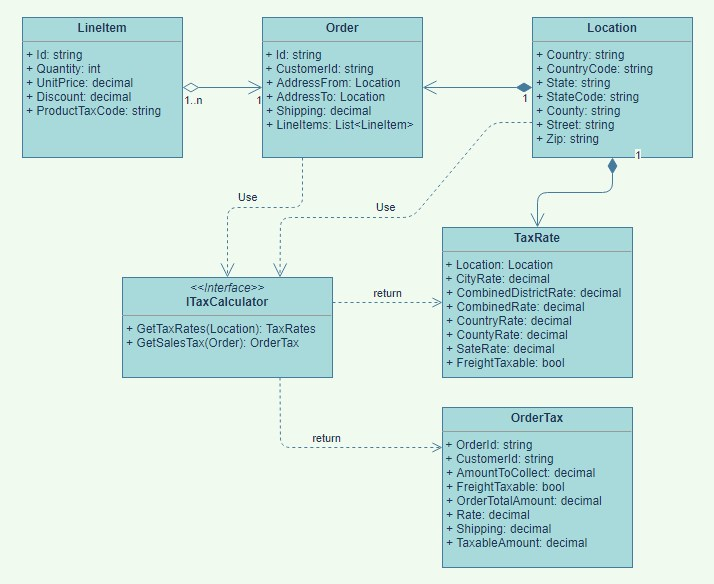
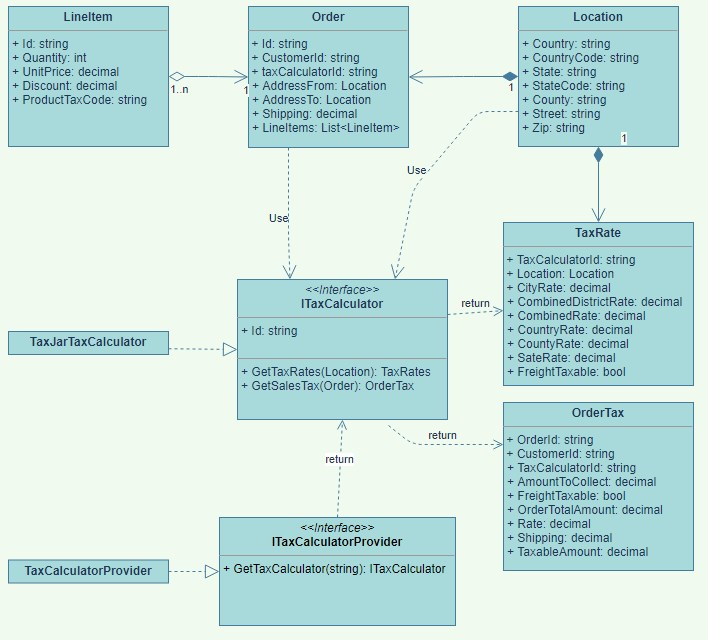
Added TaxCalculatorProvider to address possibility of multiple tax calculators

diff --git a/src/IMC.Web/Controllers/TaxCalculatorController.cs b/src/IMC.Web/Controllers/TaxCalculatorController.cs
@@ -5,6 +5,8 @@ using IMC.Domain.Validators;
 using Microsoft.AspNetCore.Mvc;
 using Microsoft.Extensions.Logging;
 using System;
+using System.Collections.Generic;
+using System.Linq;
 using System.Net.Mime;
 using System.Threading.Tasks;
 
@@ -12,11 +14,11 @@ namespace Web.Controllers {
     [Route("api/[controller]")]
     [ApiController]
     public class TaxCalculatorController : ControllerBase {
-        private readonly ITaxCalculator _taxCalculator;
+        private readonly ITaxCalculatorProvider _taxCalculatorProvider;
         private readonly ILogger<TaxCalculatorController> _logger;
 
-        public TaxCalculatorController(ITaxCalculator taxCalculator, ILogger<TaxCalculatorController> logger) {
-            _taxCalculator = taxCalculator;
+        public TaxCalculatorController(ITaxCalculatorProvider taxCalculatorProvider, ILogger<TaxCalculatorController> logger) {
+            _taxCalculatorProvider = taxCalculatorProvider;
             _logger = logger;
         }
 
@@ -25,6 +27,7 @@ namespace Web.Controllers {
         /// </summary>
         /// <param name="zipCode"></param>
         /// <param name="countryCode"></param>
+        /// <param name="taxCalculatorId"></param>
         /// <remarks>
         /// Sample return value
         /// 
@@ -40,6 +43,7 @@ namespace Web.Controllers {
         ///             "country": null,
         ///             "state": null
         ///         },
+        ///         "taxCalculatorId": "TAXJAR",
         ///         "cityRate": 0.0,
         ///         "combinedDistrictRate": 0.0,
         ///         "combinedRate": 0.07,
@@ -56,14 +60,17 @@ namespace Web.Controllers {
         [ProducesResponseType(typeof(TaxRates), 200)]
         [ProducesResponseType(typeof(string), 400)]
 
-        public async Task<ActionResult<TaxRates>> GetTaxRates([FromRoute] string zipCode, [FromQuery] string countryCode) {
+        public async Task<ActionResult<TaxRates>> GetTaxRates([FromRoute] string zipCode, 
+            [FromQuery] string countryCode, 
+            [FromQuery] string taxCalculatorId = "TAXJAR") {
             try {
                 Location location = new() { CountryCode = countryCode, Zip = zipCode };
                 LocationValidator validator = new();
                 validator.ValidateAndThrow(location);
 
-                TaxRates taxRates = await _taxCalculator.GetTaxRates(location);
-
+                var taxCalculator = _taxCalculatorProvider.GetTaxCalculator(taxCalculatorId);
+                TaxRates taxRates = await taxCalculator.GetTaxRates(location);
+                taxRates.TaxCalculatorId = taxCalculatorId;
                 return Ok(taxRates);
             }
             catch(Exception ex) {
@@ -71,58 +78,60 @@ namespace Web.Controllers {
             }
         }
 
-    /// <summary>
-    /// POST Operation to calculate the sales tax of an Order
-    /// </summary>
-    /// <param name="order"></param>
-    /// <remarks>
-    /// Sample request
-    /// 
-    ///         {
-    ///           "id": "1",
-    ///           "customerId": "1",
-    ///           "addressTo": {
-    ///             "countryCode": "US",
-    ///             "zip": "90002",
-    ///             "stateCode": "CA",
-    ///             "city": "Los Angeles",
-    ///             "street": "1335 E 103rd St"
-    ///           },
-    ///           "addressFrom": {
-    ///             "countryCode": "US",
-    ///             "zip": "92093",
-    ///             "stateCode": "CA",
-    ///             "city": "La Jolla",
-    ///             "street": "9500 Gilman Drive"
-    ///           },
-    ///           "shipping": 1.5,
-    ///           "lineItems": [
-    ///             {
-    ///               "id": "abc",
-    ///               "quantity": 1,
-    ///               "productTaxCode": "20010",
-    ///               "unitPrice": 15,
-    ///               "discount": 0
-    ///             }
-    ///           ]
-    ///         }
-    ///        
-    /// Sample response
-    /// 
-    ///         {
-    ///             "orderId": "1",
-    ///             "customerId": "1",
-    ///             "amountToCollect": 1.43,
-    ///             "freightTaxable": false,
-    ///             "orderTotalAmount": 16.5,
-    ///             "rate": 0.095,
-    ///             "shipping": 1.5,
-    ///             "taxableAmount": 15.0
-    ///         }
-    ///         
-    /// </remarks>
-    /// <returns></returns>
-    [HttpPost("taxes", Name = nameof(GetTaxes))]
+        /// <summary>
+        /// POST Operation to calculate the sales tax of an Order
+        /// </summary>
+        /// <param name="order"></param>
+        /// <remarks>
+        /// Sample request
+        /// 
+        ///         {
+        ///           "id": "1",
+        ///           "customerId": "1",
+        ///           "taxCalculatorId": "TAXJAR",
+        ///           "addressTo": {
+        ///             "countryCode": "US",
+        ///             "zip": "90002",
+        ///             "stateCode": "CA",
+        ///             "city": "Los Angeles",
+        ///             "street": "1335 E 103rd St"
+        ///           },
+        ///           "addressFrom": {
+        ///             "countryCode": "US",
+        ///             "zip": "92093",
+        ///             "stateCode": "CA",
+        ///             "city": "La Jolla",
+        ///             "street": "9500 Gilman Drive"
+        ///           },
+        ///           "shipping": 1.5,
+        ///           "lineItems": [
+        ///             {
+        ///               "id": "abc",
+        ///               "quantity": 1,
+        ///               "productTaxCode": "20010",
+        ///               "unitPrice": 15,
+        ///               "discount": 0
+        ///             }
+        ///           ]
+        ///         }
+        ///        
+        /// Sample response
+        /// 
+        ///         {
+        ///             "orderId": "1",
+        ///             "customerId": "1",
+        ///             "taxCalculatorId": "TAXJAR",
+        ///             "amountToCollect": 1.43,
+        ///             "freightTaxable": false,
+        ///             "orderTotalAmount": 16.5,
+        ///             "rate": 0.095,
+        ///             "shipping": 1.5,
+        ///             "taxableAmount": 15.0
+        ///         }
+        ///         
+        /// </remarks>
+        /// <returns></returns>
+        [HttpPost("taxes", Name = nameof(GetTaxes))]
         [Produces(MediaTypeNames.Application.Json)]
         [ProducesResponseType(typeof(OrderTax), 200)]
 
@@ -132,7 +141,9 @@ namespace Web.Controllers {
                 OrderValidator validator = new();
                 validator.ValidateAndThrow(order);
 
-                OrderTax tax = await _taxCalculator.GetSalesTax(order);
+                var taxCalculator = _taxCalculatorProvider.GetTaxCalculator(order.TaxCalculatorId);
+                OrderTax tax = await taxCalculator.GetSalesTax(order);
+                tax.TaxCalculatorId = order.TaxCalculatorId;
                 return Ok(tax);
             }
             catch (Exception vex) {

diff --git a/tests/IMC.Web.ControllersTests/TaxCalculatorControllerTests.cs b/tests/IMC.Web.ControllersTests/TaxCalculatorControllerTests.cs
@@ -14,8 +14,8 @@ namespace IMC.Web.ControllersTests {
         async Task Controller_returns_the_right_TaxRates() {
 
             // Arrange
-            var taxCalculatorMock = new Mock<ITaxCalculator>();
             var loggerMock = new Mock<ILogger<TaxCalculatorController>>();
+            var taxCalculatorMock = new Mock<ITaxCalculator>();
 
             TaxRates taxRates = new() {
                 Location = new Location {
@@ -36,7 +36,10 @@ namespace IMC.Web.ControllersTests {
 
             taxCalculatorMock.Setup(tx => tx.GetTaxRates(It.IsAny<Location>())).ReturnsAsync(taxRates);
 
-            var controller = new TaxCalculatorController(taxCalculatorMock.Object, loggerMock.Object);
+            var taxCalculatorProviderMock = new Mock<ITaxCalculatorProvider>();
+            taxCalculatorProviderMock.Setup(tp => tp.GetTaxCalculator(It.IsAny<string>())).Returns(taxCalculatorMock.Object);
+
+            var controller = new TaxCalculatorController(taxCalculatorProviderMock.Object, loggerMock.Object);
 
             // Act
             ActionResult<TaxRates> response = await controller.GetTaxRates("33029", null);
@@ -72,6 +75,7 @@ namespace IMC.Web.ControllersTests {
             OrderTax orderTax = new() {
                 OrderId = "1",
                 CustomerId = "1",
+                TaxCalculatorId = "TAXJAR",
                 AmountToCollect = 1.50m,
                 FreightTaxable = false,
                 OrderTotalAmount = 16.5m,
@@ -81,12 +85,16 @@ namespace IMC.Web.ControllersTests {
 
             taxCalculatorMock.Setup(tx => tx.GetSalesTax(It.IsAny<Order>())).ReturnsAsync(orderTax);
 
-            var controller = new TaxCalculatorController(taxCalculatorMock.Object, loggerMock.Object);
+            var taxCalculatorProviderMock = new Mock<ITaxCalculatorProvider>();
+            taxCalculatorProviderMock.Setup(tp => tp.GetTaxCalculator(It.IsAny<string>())).Returns(taxCalculatorMock.Object);
+
+            var controller = new TaxCalculatorController(taxCalculatorProviderMock.Object, loggerMock.Object);
 
             // Minimal Order To Pass Validation
             var order = new Order {
                 Id = "1",
                 CustomerId = "1",
+                TaxCalculatorId = "TAXJAR",
                 Shipping = 1.5m,
                 AddressFrom = new() {
                     CountryCode = "US",
@@ -135,7 +143,8 @@ namespace IMC.Web.ControllersTests {
 
             OrderTax orderTax = new() {
                 OrderId = "1",
-                CustomerId = "1",
+                CustomerId = "1", 
+                TaxCalculatorId = "TAXJAR",
                 AmountToCollect = 1.50m,
                 FreightTaxable = false,
                 OrderTotalAmount = 16.5m,
@@ -145,12 +154,16 @@ namespace IMC.Web.ControllersTests {
 
             taxCalculatorMock.Setup(tx => tx.GetSalesTax(It.IsAny<Order>())).ReturnsAsync(orderTax);
 
-            var controller = new TaxCalculatorController(taxCalculatorMock.Object, loggerMock.Object);
+            var taxCalculatorProviderMock = new Mock<ITaxCalculatorProvider>();
+            taxCalculatorProviderMock.Setup(tp => tp.GetTaxCalculator(It.IsAny<string>())).Returns(taxCalculatorMock.Object);
+
+            var controller = new TaxCalculatorController(taxCalculatorProviderMock.Object, loggerMock.Object);
 
             // Order without LineItems 
             var order = new Order {
                 Id = "1",
                 CustomerId = "1",
+                TaxCalculatorId = "TAXJAR",
                 Shipping = 1.5m,
                 AddressFrom = new() {
                     CountryCode = "US",

diff --git a/src/IMC.Web/Startup.cs b/src/IMC.Web/Startup.cs
@@ -1,3 +1,4 @@
+using IMC.Application;
 using IMC.Application.Interfaces;
 using Microsoft.AspNetCore.Builder;
 using Microsoft.AspNetCore.Hosting;
@@ -25,7 +26,7 @@ namespace IMC.Web {
         public void ConfigureServices(IServiceCollection services) {
 
             // Each eventual TaxCalculator would need to be configured separately.
-            services.AddHttpClient(nameof(IMC.TaxJarTaxCalculator.TaxJarTaxCalculator), client => {
+            services.AddHttpClient(nameof(TaxJarTaxCalculator.TaxJarTaxCalculator), client => {
                 client.BaseAddress = new Uri(Configuration["TaxJarUrl"]);
                 client.DefaultRequestHeaders.Authorization = new System.Net.Http.Headers.AuthenticationHeaderValue("Bearer", Configuration["TaxJarApiKey"]);
             });
@@ -36,8 +37,10 @@ namespace IMC.Web {
             services.AddTransient<ITaxCalculator>(sp => { 
                 var factory = sp.GetRequiredService<IHttpClientFactory>();
                 var client = factory.CreateClient(nameof(IMC.TaxJarTaxCalculator.TaxJarTaxCalculator));
-                return new IMC.TaxJarTaxCalculator.TaxJarTaxCalculator(client);
+                return new TaxJarTaxCalculator.TaxJarTaxCalculator(client);
             });
+
+            services.AddTransient<ITaxCalculatorProvider, TaxCalculatorProvider>();
 
             services.AddControllers();
 

diff --git a/src/IMC.Application/TaxCalculatorProvider.cs b/src/IMC.Application/TaxCalculatorProvider.cs
@@ -1,0 +1,19 @@
+using IMC.Application.Interfaces;
+using System;
+using System.Collections.Generic;
+using System.Linq;
+using System.Text;
+using System.Threading.Tasks;
+
+namespace IMC.Application
+{
+    public class TaxCalculatorProvider : ITaxCalculatorProvider {
+        private readonly IEnumerable<ITaxCalculator> _taxCalculators;
+        public TaxCalculatorProvider(IEnumerable<ITaxCalculator> taxCalculators) {
+            _taxCalculators = taxCalculators;
+        }
+        public ITaxCalculator GetTaxCalculator(string id) {
+            return _taxCalculators.First(tc => tc.Id == id);
+        }
+    }
+}

diff --git a/src/IMC.Domain/Validators/OrderValidator.cs b/src/IMC.Domain/Validators/OrderValidator.cs
@@ -4,6 +4,7 @@ namespace IMC.Domain.Validators {
     public class OrderValidator : AbstractValidator<Order> {
         public OrderValidator() {
             RuleFor(o => o.CustomerId).NotEmpty();
+            RuleFor(o => o.TaxCalculatorId).NotEmpty(); 
             RuleFor(o => o.AddressFrom).NotNull().SetValidator(new LocationValidator());
             RuleFor(o => o.AddressTo).NotNull().SetValidator(new LocationValidator());
             RuleFor(o => o.LineItems)

diff --git a/src/IMC.Domain/Order.cs b/src/IMC.Domain/Order.cs
@@ -4,6 +4,7 @@ namespace IMC.Domain {
     public class Order {
         public string Id { get; set; }
         public string CustomerId { get; set; }
+        public string TaxCalculatorId { get; set; }
         public Location AddressTo { get; set; }
         public Location AddressFrom { get; set; }
         public decimal Shipping { get; set; }

diff --git a/src/IMC.Domain/OrderTax.cs b/src/IMC.Domain/OrderTax.cs
@@ -2,7 +2,7 @@
     public class OrderTax {
         public string OrderId { get; set; }
         public string CustomerId { get; set; }
-
+        public string TaxCalculatorId { get; set; }
         public decimal AmountToCollect { get; set; }
         public bool FreightTaxable { get; set; }
         public decimal OrderTotalAmount { get; set; }

diff --git a/src/IMC.Domain/TaxRates.cs b/src/IMC.Domain/TaxRates.cs
@@ -3,6 +3,8 @@
     /// Represents a collection of tax rates associated with a Location 
     /// </summary>
     public class TaxRates {
+        public string TaxCalculatorId { get; set; }
+
         public Location Location { get; set; }
         public decimal CityRate { get; set; }
         public decimal CombinedDistrictRate { get; set; }

diff --git a/src/IMC.TaxJarTaxCalculator/TaxJarTaxCalculator.cs b/src/IMC.TaxJarTaxCalculator/TaxJarTaxCalculator.cs
@@ -16,6 +16,8 @@ namespace IMC.TaxJarTaxCalculator {
             _httpClient = client;
         }
 
+        public string Id { get => "TAXJAR";  }
+
         public async Task<OrderTax> GetSalesTax(Order order) {
             TaxJarOrder taxJarOrder = TaxJarOrder.MapFromOrder(order);
 

diff --git a/src/IMC.Application/Interfaces/ITaxCalculator.cs b/src/IMC.Application/Interfaces/ITaxCalculator.cs
@@ -3,6 +3,7 @@ using System.Threading.Tasks;
 
 namespace IMC.Application.Interfaces {
     public interface ITaxCalculator {
+        public string Id { get; }
         Task<TaxRates> GetTaxRates(Location location);
         Task<OrderTax> GetSalesTax(Order order);
     }

diff --git a/src/IMC.Application/Interfaces/ITaxCalculatorProvider.cs b/src/IMC.Application/Interfaces/ITaxCalculatorProvider.cs
@@ -1,0 +1,5 @@
+namespace IMC.Application.Interfaces {
+    public interface ITaxCalculatorProvider {
+        ITaxCalculator GetTaxCalculator(string id);
+    }
+}
